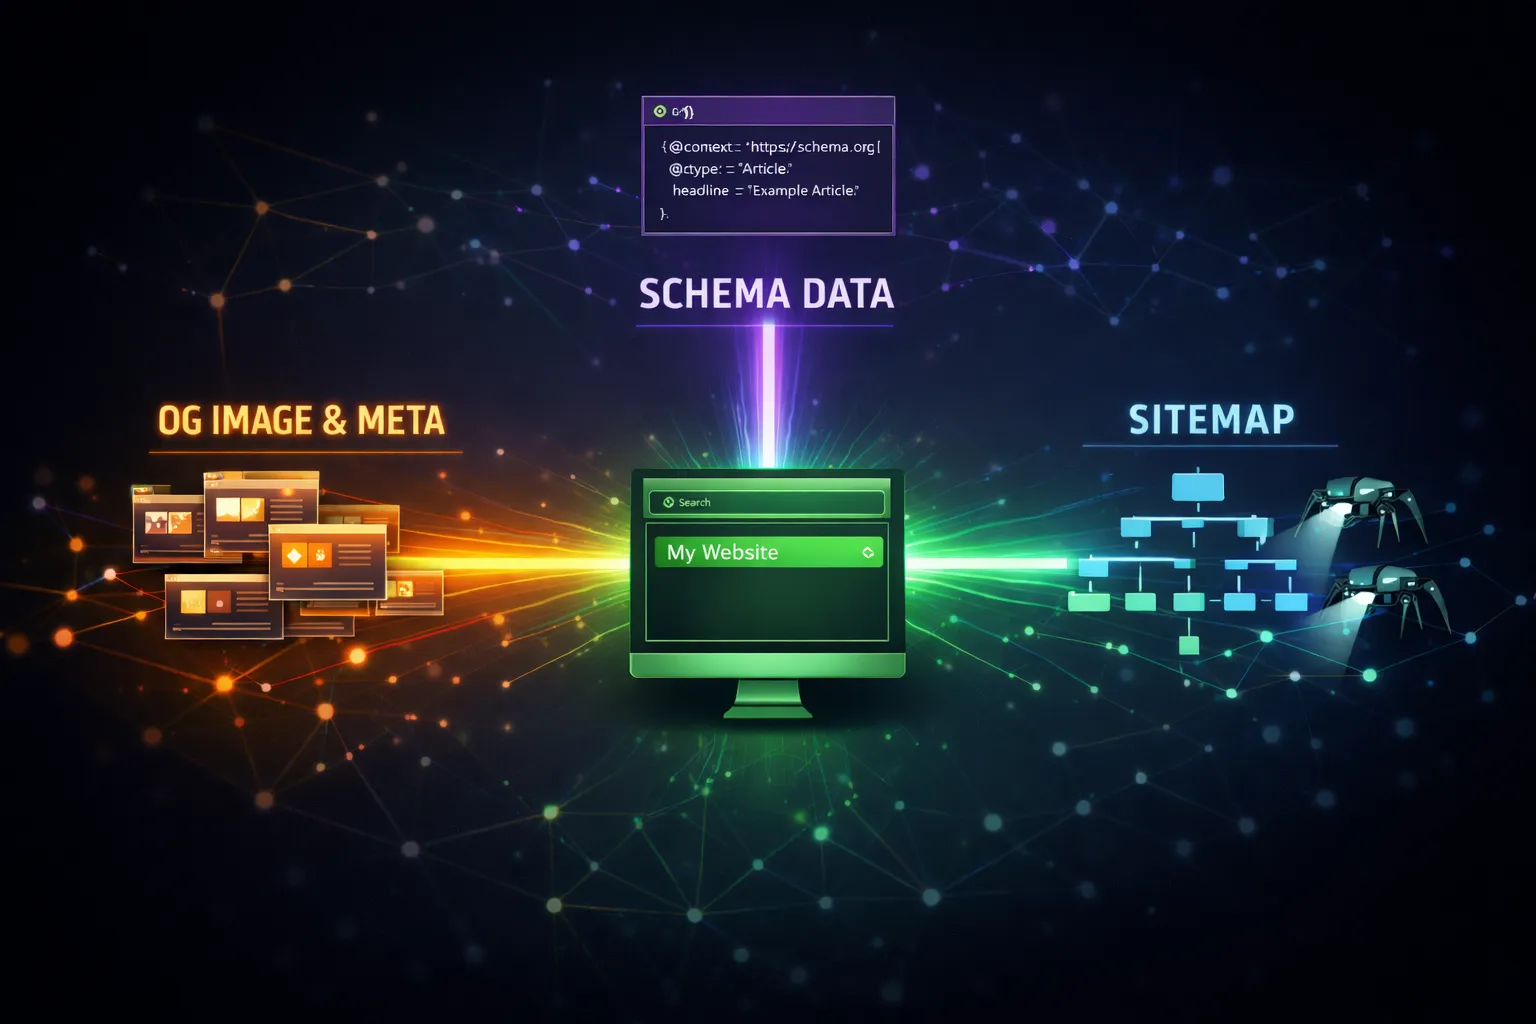
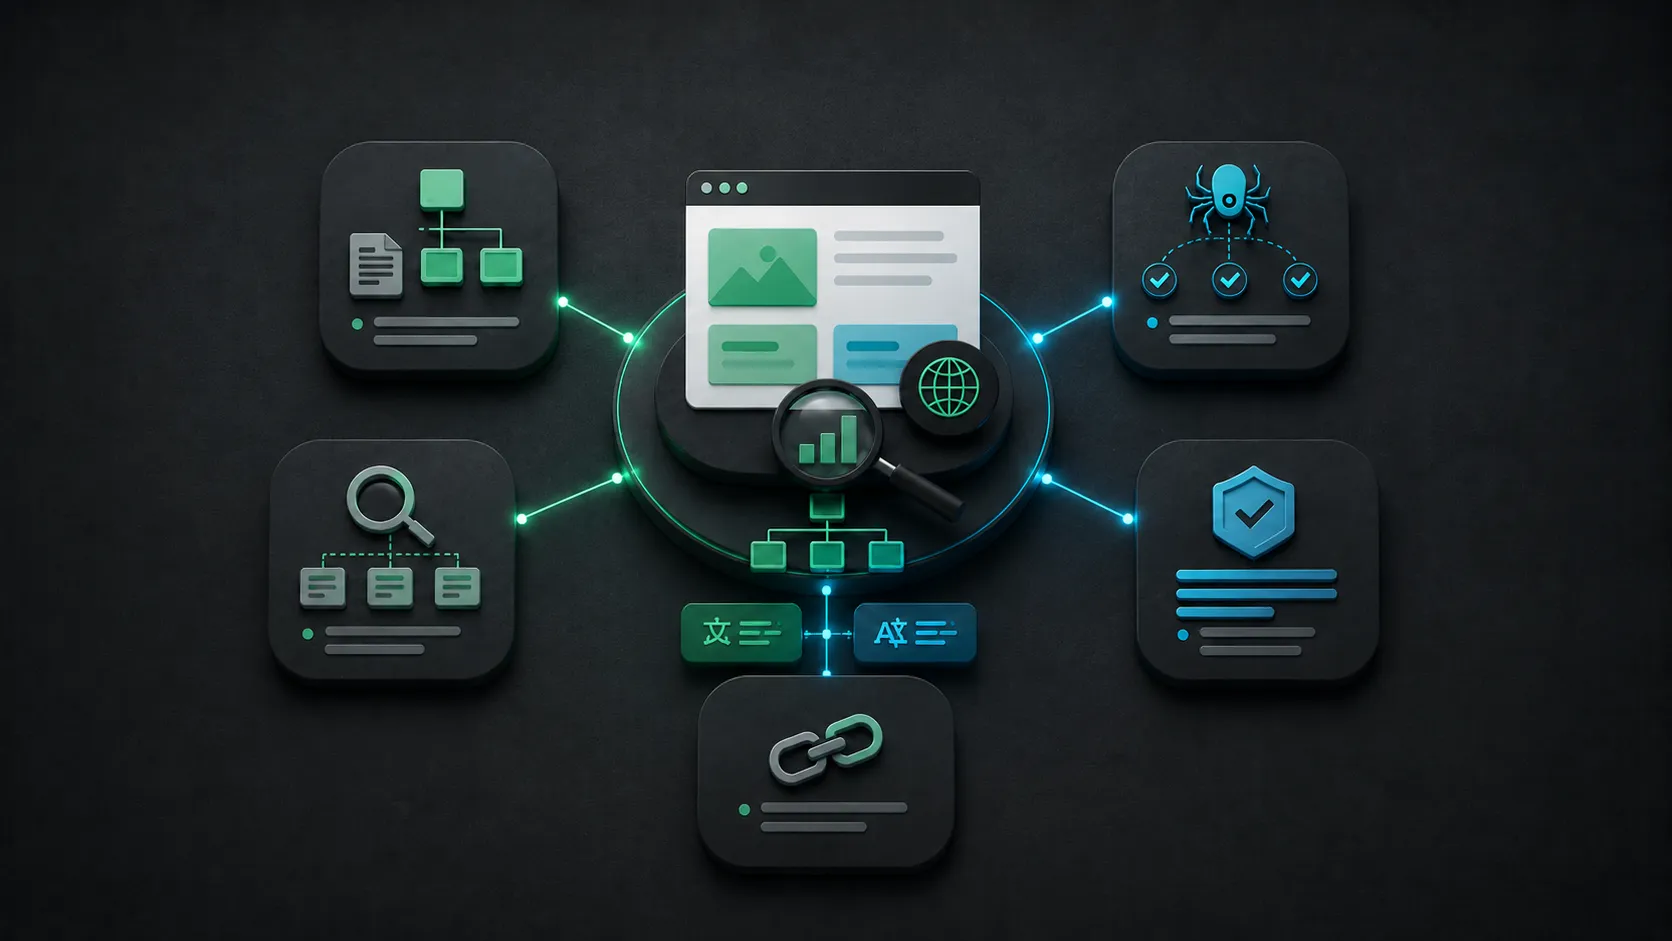
feat: 更新多篇文章的 SEO 相關圖片與描述，新增圖片檔案

diff --git a/content/en/posts/nuxt-canonical-i18n-internal-linking.md b/content/en/posts/nuxt-canonical-i18n-internal-linking.md
@@ -5,10 +5,10 @@ updatedAt: 2026-06-02
 description: "How to handle public URL signals in a bilingual Nuxt content site: canonical URLs, hreflang, query parameters, pagination, trailing slashes, URL structure, and internal linking."
 seoTitle: "Nuxt canonical, i18n, and internal linking"
 seoDescription: "A practical guide to canonical URLs, hreflang, query parameters, pagination, trailing slashes, URL structure, and internal linking in Nuxt."
-image: /blog-images/nuxt-seo-guide.webp
+image: /blog-images/nuxt-canonical-i18n-internal-linking.webp
 alt: Nuxt canonical, i18n, and internal linking
 ogImage:
-  url: /blog-images/nuxt-seo-guide.webp
+  url: /blog-images/nuxt-canonical-i18n-internal-linking.webp
 tags: ['Nuxt', 'SEO', 'Canonical', 'i18n', 'Internal Linking', 'Pagination']
 published: true
 relatedPages:

diff --git a/content/en/posts/nuxt-meta-og-schema.md b/content/en/posts/nuxt-meta-og-schema.md
@@ -5,10 +5,10 @@ updatedAt: 2026-06-02
 description: "This article focuses on the search-preview and semantic layer: titles, descriptions, OG, Twitter Cards, Slack-style previews, structured data, rich results, and image alt text derived from the same content fields."
 seoTitle: "Nuxt meta, OG, Twitter Cards, and structured data"
 seoDescription: "A practical guide to Nuxt metadata, preview cards, structured data, rich results, and image alt text as one semantic layer."
-image: /blog-images/nuxt-seo-guide.webp
+image: /blog-images/nuxt-meta-og-schema.webp
 alt: Nuxt meta, OG, Twitter Cards, and structured data
 ogImage:
-  url: /blog-images/nuxt-seo-guide.webp
+  url: /blog-images/nuxt-meta-og-schema.webp
 tags: ['Nuxt', 'SEO', 'Open Graph', 'Schema.org', 'Twitter Cards', 'Metadata']
 published: true
 relatedPages:

diff --git a/content/en/posts/nuxt-seo-checklist-monitoring-authority.md b/content/en/posts/nuxt-seo-checklist-monitoring-authority.md
@@ -5,10 +5,10 @@ updatedAt: 2026-06-02
 description: "This article focuses on the long-term maintenance layer of Nuxt SEO: pre-launch checks, post-launch monitoring, Search Console habits, structured-data validation, AI-facing discovery entry points, and practical authority-building basics."
 seoTitle: "Nuxt SEO checklist, monitoring, and authority"
 seoDescription: "A practical guide to Nuxt SEO verification, post-launch monitoring, Search Console habits, AI-facing discovery entry points, and authority baselines."
-image: /blog-images/nuxt-seo-guide.webp
+image: /blog-images/nuxt-seo-checklist-monitoring-authority.webp
 alt: Nuxt SEO checklist, monitoring, and authority
 ogImage:
-  url: /blog-images/nuxt-seo-guide.webp
+  url: /blog-images/nuxt-seo-checklist-monitoring-authority.webp
 tags: ['Nuxt', 'SEO', 'Checklist', 'Monitoring', 'Authority', 'Search Console']
 published: true
 relatedPages:

diff --git a/content/en/posts/nuxt-sitemaps-robots-indexing.md b/content/en/posts/nuxt-sitemaps-robots-indexing.md
@@ -5,10 +5,10 @@ updatedAt: 2026-06-02
 description: "Using a bilingual Nuxt blog as the example, this article explains sitemap output, robots.txt, X-Robots-Tag, noindex, dynamic-route source consistency, and how rendering modes affect the discoverable surface."
 seoTitle: "Nuxt sitemap, robots.txt, X-Robots-Tag, and noindex"
 seoDescription: "A practical guide to Nuxt sitemap output, robots.txt, X-Robots-Tag, noindex, dynamic routes, and rendering modes as one indexing surface."
-image: /blog-images/nuxt-seo-guide.webp
+image: /blog-images/nuxt-sitemaps-robots-indexing.webp
 alt: Nuxt sitemap, robots.txt, X-Robots-Tag, and noindex
 ogImage:
-  url: /blog-images/nuxt-seo-guide.webp
+  url: /blog-images/nuxt-sitemaps-robots-indexing.webp
 tags: ['Nuxt', 'SEO', 'Sitemap', 'robots.txt', 'X-Robots-Tag', 'noindex']
 published: true
 relatedPages:

diff --git a/content/en/posts/nuxt-url-lifecycle-redirects-llms.md b/content/en/posts/nuxt-url-lifecycle-redirects-llms.md
@@ -5,10 +5,10 @@ updatedAt: 2026-06-02
 description: "This article focuses on post-publish URL lifecycle management: redirect strategy, retiring old URLs, duplicate content, 404 versus 410, legacy cleanup, and the role of `llms.txt` as an AI-facing discovery entry point."
 seoTitle: "Nuxt URL management, redirect strategy, duplicate content, and llms.txt"
 seoDescription: "How to manage URL changes, content retirement, redirect strategy, duplicate content, and llms.txt in a Nuxt site without throwing away accumulated signals."
-image: /blog-images/nuxt-seo-guide.webp
+image: /blog-images/nuxt-url-lifecycle-redirects-llms.webp
 alt: Nuxt URL management, redirect strategy, duplicate content, and llms.txt
 ogImage:
-  url: /blog-images/nuxt-seo-guide.webp
+  url: /blog-images/nuxt-url-lifecycle-redirects-llms.webp
 tags: ['Nuxt', 'SEO', 'Redirects', 'Duplicate Content', 'llms.txt', '404']
 published: true
 relatedPages:

diff --git a/content/zh/posts/nuxt-canonical-i18n-internal-linking.md b/content/zh/posts/nuxt-canonical-i18n-internal-linking.md
@@ -5,10 +5,10 @@ updatedAt: 2026-06-02
 description: 如何處理公開 URL 訊號：canonical、hreflang、query params、pagination、trailing slash、URL structure 與 internal linking，讓雙語 Nuxt 內容網站的正式網址清楚可判斷。
 seoTitle: "Nuxt Canonical、i18n 與 Internal Linking"
 seoDescription: "整理 Nuxt canonical、hreflang、query params、pagination、trailing slash、URL structure 與 internal linking 的網址訊號策略。"
-image: /blog-images/nuxt-seo-guide.webp
+image: /blog-images/nuxt-canonical-i18n-internal-linking.webp
 alt: Nuxt Canonical、i18n 與 Internal Linking
 ogImage:
-  url: /blog-images/nuxt-seo-guide.webp
+  url: /blog-images/nuxt-canonical-i18n-internal-linking.webp
 tags: ['Nuxt', 'SEO', 'Canonical', 'i18n', 'Internal Linking', 'Pagination']
 published: true
 relatedPages:

diff --git a/content/zh/posts/nuxt-meta-og-schema.md b/content/zh/posts/nuxt-meta-og-schema.md
@@ -5,10 +5,10 @@ updatedAt: 2026-06-02
 description: 這篇文章將聚焦在搜尋預覽與語意層的設定：title、description、OG、Twitter Card、Slack unfurls、Schema 結構化資料、複合搜尋結果，以及圖片替代文字與內容欄位推導。
 seoTitle: "Nuxt Meta、OG、Twitter Card 與 Schema 結構化資料"
 seoDescription: "整理 Nuxt metadata、OG preview、Twitter Card、Slack unfurls、Schema 結構化資料、複合搜尋結果與圖片 alt text 的分層實作。"
-image: /blog-images/nuxt-seo-guide.webp
+image: /blog-images/nuxt-meta-og-schema.webp
 alt: Nuxt Meta、OG、Twitter Card 與 Schema 結構化資料
 ogImage:
-  url: /blog-images/nuxt-seo-guide.webp
+  url: /blog-images/nuxt-meta-og-schema.webp
 tags: ['Nuxt', 'SEO', 'Open Graph', 'Schema 結構化資料', 'Twitter Cards', 'Metadata']
 published: true
 relatedPages:

diff --git a/content/zh/posts/nuxt-seo-checklist-monitoring-authority.md b/content/zh/posts/nuxt-seo-checklist-monitoring-authority.md
@@ -5,10 +5,10 @@ updatedAt: 2026-06-02
 description: 這篇文章將焦點放在 Nuxt SEO 的長期維護策略與驗證層：上線前檢查、上線後監控、Search Console、結構化資料驗證、AI 探索入口準備，以及 backlinks 與 authority 的基本做法。
 seoTitle: "Nuxt SEO 驗證、監控與 Authority"
 seoDescription: "整理 Nuxt SEO 的 pre-launch checklist、post-launch monitoring、Search Console、AI 探索入口與 authority 基準。"
-image: /blog-images/nuxt-seo-guide.webp
+image: /blog-images/nuxt-seo-checklist-monitoring-authority.webp
 alt: Nuxt SEO 驗證、監控與 Authority
 ogImage:
-  url: /blog-images/nuxt-seo-guide.webp
+  url: /blog-images/nuxt-seo-checklist-monitoring-authority.webp
 tags: ['Nuxt', 'SEO', 'Checklist', 'Monitoring', 'Authority', 'Search Console']
 published: true
 relatedPages:

diff --git a/content/zh/posts/nuxt-sitemaps-robots-indexing.md b/content/zh/posts/nuxt-sitemaps-robots-indexing.md
@@ -5,10 +5,10 @@ updatedAt: 2026-06-02
 description: 以個人雙語 Nuxt 部落格網頁為例，詳解 sitemap、robots.txt、X-Robots-Tag、noindex、動態路由來源一致性，以及渲染模式如何影響可被發現的內容面。
 seoTitle: "Nuxt Sitemap、robots.txt、X-Robots-Tag 與 noindex"
 seoDescription: "整理 Nuxt sitemap、robots.txt、X-Robots-Tag、noindex、動態路由與渲染模式如何共同決定索引面。"
-image: /blog-images/nuxt-seo-guide.webp
+image: /blog-images/nuxt-sitemaps-robots-indexing.webp
 alt: Nuxt Sitemap、robots.txt、X-Robots-Tag 與 noindex
 ogImage:
-  url: /blog-images/nuxt-seo-guide.webp
+  url: /blog-images/nuxt-sitemaps-robots-indexing.webp
 tags: ['Nuxt', 'SEO', 'Sitemap', 'robots.txt', 'X-Robots-Tag', 'noindex']
 published: true
 relatedPages:

diff --git a/content/zh/posts/nuxt-url-lifecycle-redirects-llms.md b/content/zh/posts/nuxt-url-lifecycle-redirects-llms.md
@@ -5,10 +5,10 @@ updatedAt: 2026-06-02
 description: 這篇文章聚焦在內容發布之後的 URL 生命週期管理：重新導向策略、舊網址淘汰、重複內容、404/410、legacy cleanup，以及 `llms.txt` 作為 AI 探索入口的角色。
 seoTitle: "Nuxt URL 管理策略、重新導向策略、重複內容 與 llms.txt"
 seoDescription: "整理 Nuxt 網站在內容改名、重組、下架之後，如何用重新導向策略、404/410、重複內容與 llms.txt 維持 URL 訊號。"
-image: /blog-images/nuxt-seo-guide.webp
+image: /blog-images/nuxt-url-lifecycle-redirects-llms.webp
 alt: Nuxt URL 管理策略、重新導向策略、重複內容與 llms.txt
 ogImage:
-  url: /blog-images/nuxt-seo-guide.webp
+  url: /blog-images/nuxt-url-lifecycle-redirects-llms.webp
 tags: ['Nuxt', 'SEO', '重新導向', '重複內容', 'llms.txt', '404']
 published: true
 relatedPages: